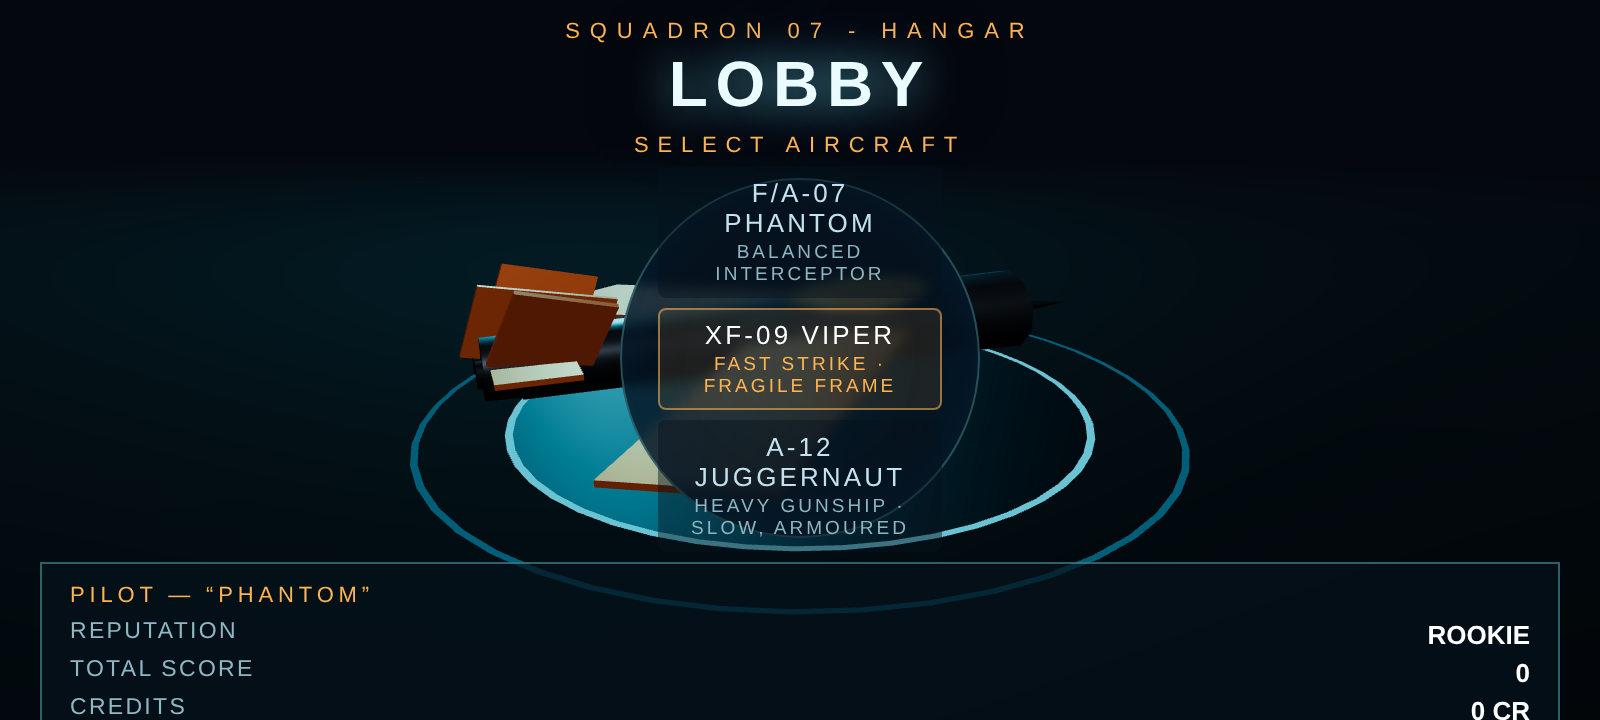
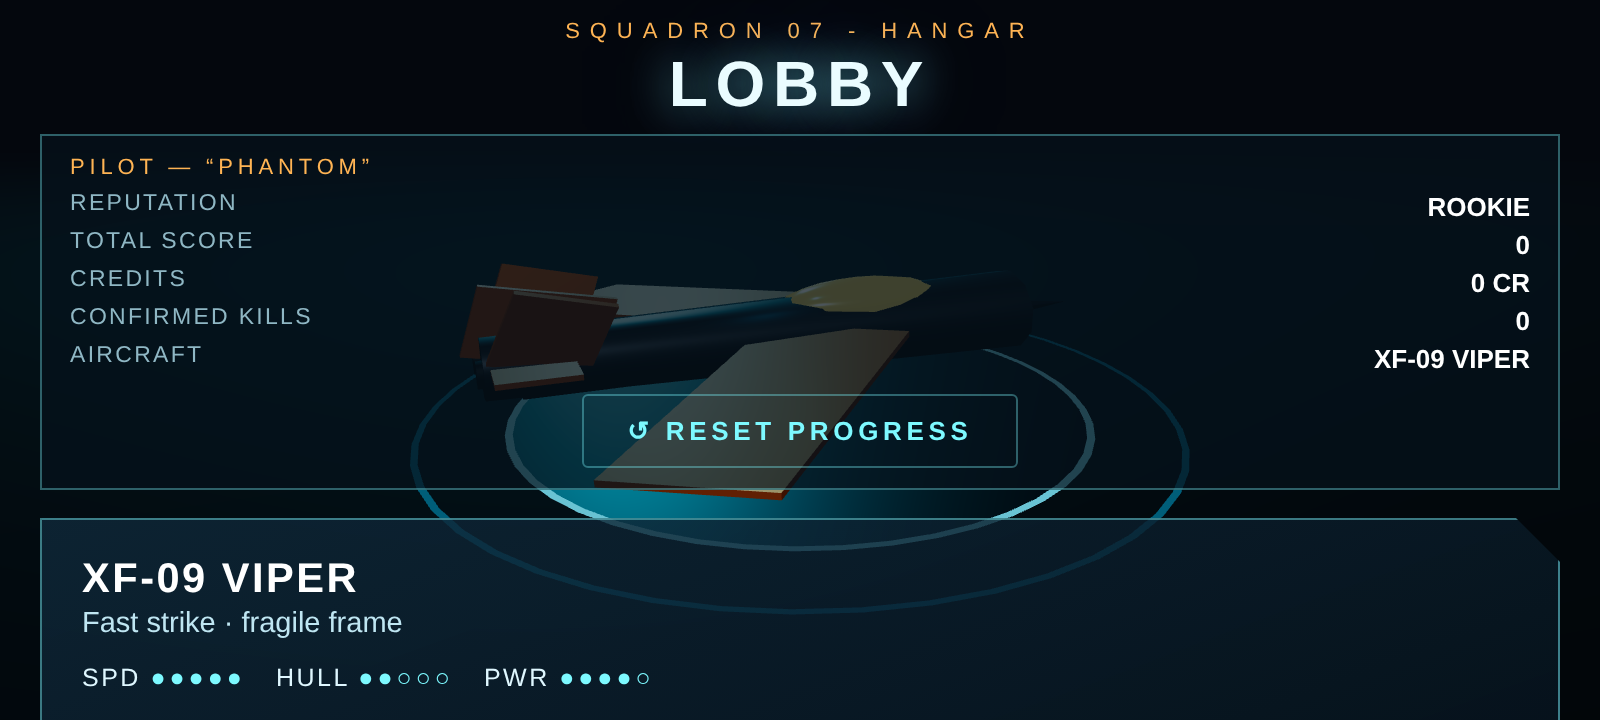
Aircraft selection is now its own SELECT AIRCRAFT screen (Change Aircraft button in the lobby); the circular selector over the 3D jet is gone, lobby shows only the selected jet's info panel

diff --git a/index.html b/index.html
@@ -85,18 +85,7 @@
   .hangar-head{text-align:center;pointer-events:none}
   .hangar-head .title{font-size:clamp(24px,4vw,33px);margin:2px 0 0}
   .hangar-mid{flex:1 0 auto;display:flex;justify-content:space-between;align-items:flex-start;gap:14px;min-height:0;padding:6px 0 2px}
-  .hangar-label{letter-spacing:.4em;font-size:11px;color:var(--amber);text-transform:uppercase;margin-bottom:10px}
   .hangar-left{width:250px;flex:none}
-  .jet-circle{width:180px;height:180px;border:1px solid rgba(125,249,255,.28);border-radius:50%;
-    background:radial-gradient(circle,rgba(8,24,38,.78),rgba(4,12,20,.88));display:flex;flex-direction:column;
-    align-items:center;justify-content:center;gap:5px;padding:18px;text-align:center;
-    box-shadow:0 0 34px rgba(0,140,255,.12) inset;backdrop-filter:blur(3px);-webkit-backdrop-filter:blur(3px)}
-  .jet-opt{width:100%;background:rgba(6,18,28,.45);border:1px solid transparent;color:#c4e2ee;cursor:pointer;
-    font-family:inherit;padding:5px 6px;letter-spacing:.12em;font-size:13px;text-transform:uppercase;border-radius:4px}
-  .jet-opt small{display:block;font-size:9.5px;letter-spacing:.16em;color:#8fb4c2;margin-top:2px;text-transform:uppercase}
-  .jet-opt:hover{color:#dff7ff}
-  .jet-opt.sel{color:#fff;border-color:rgba(255,180,84,.55);background:rgba(255,180,84,.10)}
-  .jet-opt.sel small{color:var(--amber)}
   .pilot-mini{margin-top:12px;border:1px solid var(--line);background:rgba(6,18,28,.72);padding:10px 14px;text-align:left}
   .pilot-mini .pilot-stats{font-size:13px;margin-top:6px;gap:4px 18px}
   .hangar-right{width:330px;flex:none}
@@ -120,7 +109,6 @@
   @media(max-width:820px){
     .hangar-mid{flex-direction:column;align-items:stretch;min-height:0}
     .hangar-left,.hangar-right{width:100%}
-    .jet-circle{margin:0 auto}
   }
 
   /* ---------- HUD ---------- */
@@ -285,9 +273,7 @@
     </div>
     <div class="hangar-mid">
       <div class="hangar-left">
-        <div class="hangar-label">Select Aircraft</div>
-        <div class="jet-circle" id="lobby-jets"></div>
-        <div class="pilot-mini">
+        <div class="pilot-mini" style="margin-top:0">
           <div class="kicker" style="letter-spacing:.22em">Pilot — “Phantom”</div>
           <div class="pilot-stats">
             <span>Reputation</span><b id="lobby-rank">ROOKIE</b>
@@ -306,6 +292,7 @@
           <div class="pips" id="jet-info-pips"></div>
           <p id="jet-info-desc"></p>
         </div>
+        <button id="btn-open-jets" class="btn ghost" style="width:100%;margin-top:10px;padding:10px">✈ Change Aircraft</button>
         <div class="hangar-actions">
           <button id="btn-drawer-armory">⚙ Armory & Workshop</button>
           <button id="btn-drawer-record">🎖 Service Record</button>
@@ -330,6 +317,16 @@
     <p class="obj" style="margin:8px 0 4px">Choose your sortie. Locked missions open as you clear the campaign.</p>
     <div id="lobby-missions"></div>
     <div class="center"><button class="btn ghost" id="btn-missions-back">← Back to Hangar</button></div>
+  </div>
+</div>
+
+<!-- ================= SELECT AIRCRAFT ================= -->
+<div id="screen-jets" class="screen hidden">
+  <div class="panel">
+    <div class="kicker">Hangar — Squadron 07</div>
+    <h2>SELECT AIRCRAFT</h2>
+    <div id="jets-list" style="margin-top:10px"></div>
+    <div class="center"><button class="btn ghost" id="btn-jets-back">← Back to Hangar</button></div>
   </div>
 </div>
 
@@ -1823,6 +1820,12 @@ function startHangar() {
   };
   requestAnimationFrame(step);
 }
+function showJets() {
+  state = 'jets';
+  showScreen('screen-jets');
+}
+el('btn-open-jets').addEventListener('click', showJets);
+el('btn-jets-back').addEventListener('click', () => showLobby());
 function showArmory() {
   el('armory-credits').textContent = SAVE.credits + ' CR';
   el('armory-aircraft').textContent = JETS[SAVE.jet].name;
@@ -1842,7 +1845,7 @@ el('btn-record-back').addEventListener('click', () => showLobby());
 // 8. FLOW — screens, launch, debrief, upgrades
 // ================================================================
 function showScreen(id) {
-  for (const s of ['screen-start', 'screen-lobby', 'screen-missions', 'screen-armory', 'screen-record', 'screen-brief', 'screen-debrief', 'screen-end']) el(s).classList.add('hidden');
+  for (const s of ['screen-start', 'screen-lobby', 'screen-missions', 'screen-jets', 'screen-armory', 'screen-record', 'screen-brief', 'screen-debrief', 'screen-end']) el(s).classList.add('hidden');
   if (id) el(id).classList.remove('hidden');
   el('hud').classList.toggle('hidden', id !== null);
   el('touch').classList.toggle('hidden', !(id === null && IS_TOUCH));
@@ -2074,13 +2077,14 @@ function showLobby(keepScroll) {
   el('lobby-kills').textContent = SAVE.kills;
   el('lobby-aircraft').textContent = JETS[SAVE.jet].name;
   el('lobby-best-endless').textContent = 'WAVE ' + SAVE.bestEndless;
-  const jetsEl = el('lobby-jets');
+  const jetsEl = el('jets-list');
   jetsEl.innerHTML = '';
+  const dots = (v) => { const n = Math.max(1, Math.min(5, Math.round(v))); return '●'.repeat(n) + '○'.repeat(5 - n); };
   for (const [id, j] of Object.entries(JETS)) {
     const b = document.createElement('button');
-    b.className = 'jet-opt' + (id === SAVE.jet ? ' sel' : '');
-    b.innerHTML = `${j.name}<small>${j.role}</small>`;
-    b.addEventListener('click', () => { SAVE.jet = id; setPlayerJet(id); saveGame(); SoundFX.lockBeep(); showLobby(true); });
+    b.className = 'mission-btn' + (id === SAVE.jet ? ' sel' : '');
+    b.innerHTML = `<span>${j.name}<small>${j.role} · SPD ${dots(j.speedMul * 4)} · HULL ${dots(j.hullMul * 3)} · PWR ${dots(j.dmgMul * 4)}</small><small>${j.desc || ''}</small></span><b>${id === SAVE.jet ? '▶' : ''}</b>`;
+    b.addEventListener('click', () => { SAVE.jet = id; setPlayerJet(id); saveGame(); SoundFX.lockBeep(); showLobby(); });
     jetsEl.appendChild(b);
   }
   updateJetInfo();
